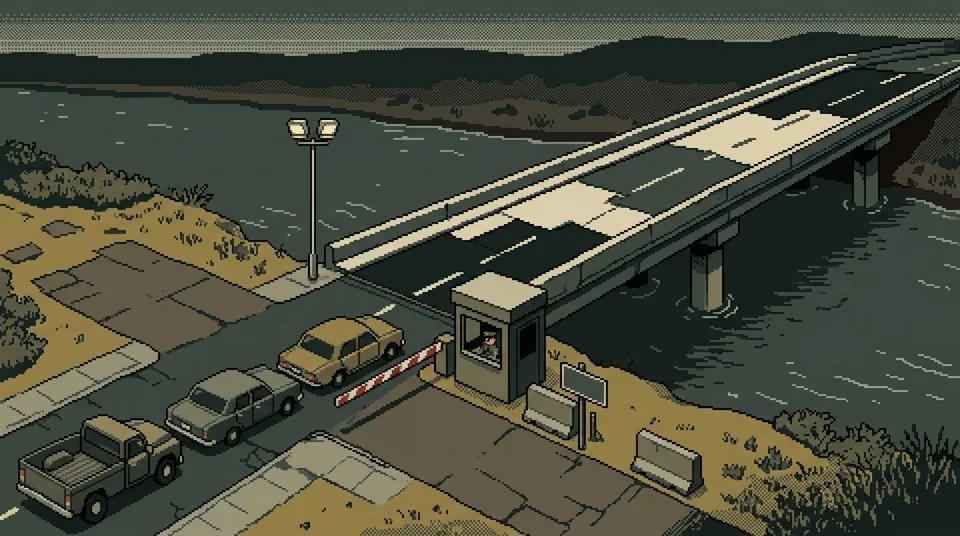
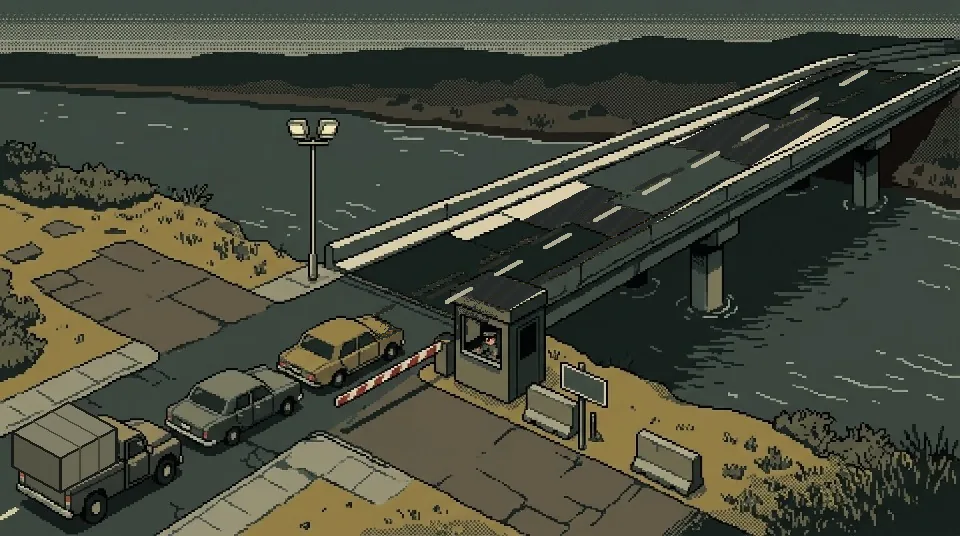
feat(#292): сцены первого срока 1978 года без чужой символики и процедурных заглушек (#289, #291)

diff --git a/web/app/game/SovereignGame.jsx b/web/app/game/SovereignGame.jsx
@@ -3521,16 +3521,21 @@ function Game({ gs, setGs, onEnd, onMenu, recap, onRecapDone }) {
                   </div>
                 )}
                 <h2 style={{ fontFamily:serif, fontSize:28, fontWeight:700, color:G.txt, lineHeight:1.2, marginBottom:12, textWrap:"balance" }}>{event.title}</h2>
-                {isFactoryOpening(gs) ? <FactoryLive/> : sceneOf(event) !== "square" && (
-                  <figure className={`sv-scene${inboxMode && !event.call && !event.press ? ' sv-case-attachment' : ''}`}
-                    style={{ margin:"0 0 16px", border:`2px solid ${G.txt}`, boxShadow:"var(--hard)" }}>
-                    <SquareView gs={gs} art={historicalEventArt(gs.country, event, sceneOf(event))} sceneKey={sceneOf(event)}
-                      partner={event.source === "Кремль" ? "ru" : gs.country === ALTERNATE_COUNTRY ? "trade1978" : "eu"} height={60} still/>
-                    {inboxMode && !event.call && !event.press && <figcaption>
-                      Приложение к делу · {historicalEventArt(gs.country, event, sceneOf(event))?.caption ?? SCENE_CAPTION[sceneOf(event)]}
-                    </figcaption>}
-                  </figure>
-                )}
+                {(() => {
+                  const caseArt = historicalEventArt(gs.country, event, sceneOf(event));
+                  if (isFactoryOpening(gs)) return <FactoryLive/>;
+                  if (gs.country === ALTERNATE_COUNTRY ? !caseArt : sceneOf(event) === "square") return null;
+                  return (
+                    <figure className={`sv-scene${inboxMode && !event.call && !event.press ? ' sv-case-attachment' : ''}`}
+                      style={{ margin:"0 0 16px", border:`2px solid ${G.txt}`, boxShadow:"var(--hard)" }}>
+                      <SquareView gs={gs} art={caseArt} sceneKey={sceneOf(event)}
+                        partner={event.source === "Кремль" ? "ru" : gs.country === ALTERNATE_COUNTRY ? "trade1978" : "eu"} height={60} still/>
+                      {inboxMode && !event.call && !event.press && <figcaption>
+                        Приложение к делу · {caseArt?.caption ?? SCENE_CAPTION[sceneOf(event)]}
+                      </figcaption>}
+                    </figure>
+                  );
+                })()}
                 {event.special && <SpecialHeader gs={gs} event={event}/>}
                 {(() => {
                   const { lead, rest } = splitLead(event.description, CASE_LEAD);
@@ -3656,13 +3661,19 @@ function Game({ gs, setGs, onEnd, onMenu, recap, onRecapDone }) {
                 </div>
                 <div style={{ fontFamily:narrow, fontWeight:700, fontSize:13, letterSpacing:".12em", textTransform:"uppercase", color:G.red, marginBottom:4 }}>{rubricOf(lastTurn)}</div>
                 <h2 id="sv-turn-result" className="sv-paper-drop" style={{ fontFamily:narrow, fontWeight:700, fontSize:"clamp(28px, 6.4vw, 38px)", lineHeight:1.1, color:G.txt, marginBottom:12, textWrap:"balance", animationDelay:".15s" }}><PeopleText>{lastTurn.headline}</PeopleText></h2>
-                <figure style={{ margin:"0 0 14px", border:`2px solid ${G.txt}` }}>
-                  <SquareView gs={gs} art={historicalResultArt(gs, lastTurn.scene)}
-                    sceneKey={lastTurn.scene} height={36} mono still/>
-                  <figcaption style={{ fontFamily:narrow, fontSize:14, color:G.tx3, padding:"3px 8px", borderTop:`2px solid ${G.txt}` }}>
-                    {historicalResultArt(gs, lastTurn.scene)?.caption ?? SCENE_CAPTION[lastTurn.scene] ?? SCENE_CAPTION.square}. Фото редакции
-                  </figcaption>
-                </figure>
+                {(() => {
+                  const resultArt = historicalResultArt(gs, lastTurn.scene);
+                  if (gs.country === ALTERNATE_COUNTRY && !resultArt) return null;
+                  return (
+                    <figure style={{ margin:"0 0 14px", border:`2px solid ${G.txt}` }}>
+                      <SquareView gs={gs} art={resultArt}
+                        sceneKey={lastTurn.scene} height={36} mono still/>
+                      <figcaption style={{ fontFamily:narrow, fontSize:14, color:G.tx3, padding:"3px 8px", borderTop:`2px solid ${G.txt}` }}>
+                        {resultArt?.caption ?? SCENE_CAPTION[lastTurn.scene] ?? SCENE_CAPTION.square}. Фото редакции
+                      </figcaption>
+                    </figure>
+                  );
+                })()}
                 {(() => {
                   // #260: первый абзац — всегда о резолюции; эхо прежних решений и прочее в квартале — отдельным блоком.
                   const quarter = splitQuarter(withoutHeadline(lastTurn.narrative, lastTurn.headline));

diff --git a/web/lib/client/historical-art.test.ts b/web/lib/client/historical-art.test.ts
@@ -28,8 +28,8 @@ test('all mapped WebP files exist within the image budgets', () => {
     HISTORICAL_ADDITIONAL_FIGURE_ART, HISTORICAL_ADVISOR_ART, HISTORICAL_LEADER_ART,
     HISTORICAL_SECRETARY_ART, HISTORICAL_ADVISOR_REPLACEMENT_ART, HISTORICAL_WORLD_PEOPLE_ART,
     HISTORICAL_PRESS_ART, HISTORICAL_FIGURE_SUCCESSOR_ART].flatMap(group => Object.values(group).map(art => art.src));
-  assert.equal(paths.length, 83);
-  assert.equal(new Set(paths).size, 82); // wages and wagesGate share wages-gate.webp
+  assert.equal(paths.length, 86);
+  assert.equal(new Set(paths).size, 85); // wages and wagesGate share wages-gate.webp
   let bytes = 0;
   for (const src of paths) {
     const file = new URL(`../../public${src}`, import.meta.url);
@@ -41,7 +41,7 @@ test('all mapped WebP files exist within the image budgets', () => {
       assert.ok(statSync(file).size <= (isPortrait ? 10_000 : 100_000), src);
     }
   }
-  assert.ok(bytes < 2_800_000);
+  assert.ok(bytes < 3_000_000);
 });
 
 test('hospital photos distinguish failed repair, ongoing works and a finished roof after reload', async () => {
@@ -193,7 +193,7 @@ test('first crisis and election night resolve authorial outcome scenes', async (
     const successState = { ...base, history: [{ year: 1978, title: harvestCard.title, choice: choice.text, headline: '', historianNote: '', success: true }] };
     assert.deepEqual(historicalResultArt(successState, 'field'), expectedHarvestSuccess[idx]);
     const failState = { ...base, history: [{ year: 1978, title: harvestCard.title, choice: choice.text, headline: '', historianNote: '', success: false }] };
-    assert.deepEqual(historicalResultArt(failState, 'field'), HISTORICAL_SCENE_ART.harvest);
+    assert.deepEqual(historicalResultArt(failState, 'field'), HISTORICAL_OUTCOME_ART.harvestRot);
   }
   const fuelCard = ALTERNATE_EVENTS.find(c => c.id === 'alt_fuel')!;
   const expectedFuelSuccess = [
@@ -467,4 +467,39 @@ test('living world characters, press correspondents and staffing candidates all 
     assert.notEqual(afterHire, HISTORICAL_ADVISOR_ART[candidate.seat].src);
   }
 });
+
+test('budget, terms, and factory strike resolve dedicated 1978 scenes while unmapped generic scenes return null', async () => {
+  const base = await fresh();
+  const event = await classicApi.event(base);
+
+  const budgetEvent = { ...event, card: undefined, title: 'Предвыборный бюджет', budget: { total: 10 } };
+  assert.deepEqual(historicalEventArt(ALTERNATE_COUNTRY, budgetEvent, 'cabinet'), HISTORICAL_SCENE_ART.budget);
+  const budgetState = { ...base, history: [{ year: 1979, title: 'Предвыборный бюджет', choice: '', headline: '', historianNote: '' }] };
+  assert.deepEqual(historicalResultArt(budgetState, 'cabinet'), HISTORICAL_SCENE_ART.budget);
+
+  const termsEvent = { ...event, card: undefined, title: 'Вопрос о сроках' };
+  assert.deepEqual(historicalEventArt(ALTERNATE_COUNTRY, termsEvent, 'stamp'), HISTORICAL_SCENE_ART.terms);
+  const termsState = { ...base, history: [{ year: 1982, title: 'Вопрос о сроках', choice: '', headline: '', historianNote: '' }] };
+  assert.deepEqual(historicalResultArt(termsState, 'stamp'), HISTORICAL_SCENE_ART.terms);
+
+  const strikeEvent = { ...event, card: 'alt_region_factory_strike', title: 'Заводы бастуют, деревня молчит' };
+  assert.deepEqual(historicalEventArt(ALTERNATE_COUNTRY, strikeEvent, 'protest'), HISTORICAL_SCENE_ART.factoryStrike);
+  assert.notEqual(historicalEventArt(ALTERNATE_COUNTRY, strikeEvent, 'protest'), HISTORICAL_SCENE_ART.protest);
+  const genericStrikeEvent = { ...event, card: undefined, title: 'Забастовка на крупнейшем заводе' };
+  assert.deepEqual(historicalEventArt(ALTERNATE_COUNTRY, genericStrikeEvent, 'protest'), HISTORICAL_SCENE_ART.factoryStrike);
+
+  const unmappedEvent = { ...event, card: undefined, title: 'Внеочередное совещание в министерстве' };
+  for (const scene of ['cabinet', 'stamp', 'meeting'] as const) {
+    assert.equal(historicalEventArt(ALTERNATE_COUNTRY, unmappedEvent, scene), null);
+    const unmappedResult = { ...base, history: [{ year: 1983, title: unmappedEvent.title, choice: '', headline: '', historianNote: '' }] };
+    assert.equal(historicalResultArt(unmappedResult, scene), null);
+  }
+
+  for (const country of LEGACY_COUNTRIES) {
+    assert.equal(historicalEventArt(country, budgetEvent, 'cabinet'), null);
+    assert.equal(historicalEventArt(country, termsEvent, 'stamp'), null);
+    assert.equal(historicalEventArt(country, strikeEvent, 'protest'), null);
+  }
+});
+
 

diff --git a/web/lib/client/historical-art.ts b/web/lib/client/historical-art.ts
@@ -28,6 +28,9 @@ export const HISTORICAL_SCENE_ART = {
   electionDefeat: { src: '/art/gemini-next/election-defeat.webp', caption: 'Штаб кампании в полночь после поражения' },
   parliamentHall: { src: '/art/gemini-next/parliament-hall.webp', caption: 'Правительственная ложа в зале парламента' },
   residenceMorning: { src: '/art/gemini-next/residence-morning.webp', caption: 'Вид из кабинета президента на площадь Независимости' },
+  budget: { src: '/art/gemini-next/budget-folders.webp', caption: 'Пять папок бюджета на столе президента' },
+  terms: { src: '/art/gemini-next/terms-folder.webp', caption: 'Папка без надписи' },
+  factoryStrike: { src: '/art/gemini-next/factory-strike.webp', caption: 'Забастовка у заводской проходной' },
 } as const;
 export type HistoricalArt = { src: string; caption: string };
 export const HISTORICAL_OUTCOME_ART = {
@@ -83,7 +86,7 @@ const CARD_ART: Record<string, HistoricalArt> = {
   alt_radio: HISTORICAL_SCENE_ART.radio, alt_harvest: HISTORICAL_SCENE_ART.harvest,
   alt_archive: HISTORICAL_SCENE_ART.archive,
   alt_region_walkers: HISTORICAL_SCENE_ART.bridge,
-  alt_region_factory_strike: HISTORICAL_SCENE_ART.protest,
+  alt_region_factory_strike: HISTORICAL_SCENE_ART.factoryStrike,
   alt_region_customs: HISTORICAL_SCENE_ART.rail,
   alt_region_governors: HISTORICAL_SCENE_ART.parliamentHall,
   alt_region_border_rift: HISTORICAL_SCENE_ART.rail,
@@ -98,15 +101,20 @@ const TITLE_ART: Record<string, HistoricalArt> = Object.fromEntries([
   ...ALTERNATE_EVENTS.filter(card => CARD_ART[card.id]).map(card => [card.title, CARD_ART[card.id]]),
   ...ALTERNATE_LAWS.map(law => [`Законопроект «${law.title}»`, CARD_ART[`law_${law.id}`]]),
   ['Мосты после паводка', HISTORICAL_SCENE_ART.bridge],
+  ['Предвыборный бюджет', HISTORICAL_SCENE_ART.budget],
+  ['Вопрос о сроках', HISTORICAL_SCENE_ART.terms],
+  ['Забастовка на крупнейшем заводе', HISTORICAL_SCENE_ART.factoryStrike],
 ]);
 
 export function historicalEventArt(country: string, event: GameEvent, scene: SceneKey): HistoricalArt | null {
   if (country !== ALTERNATE_COUNTRY) return null;
   if (event.beat?.arcId === 'alt_contracts') return HISTORICAL_SCENE_ART.archive;
+  if (event.budget) return HISTORICAL_SCENE_ART.budget;
   if (event.card && CARD_ART[event.card]) return CARD_ART[event.card];
   const bill = event.card?.match(/^law:\d+:(alt_export_guarantee|alt_open_orders)$/)?.[1];
   if (bill) return CARD_ART[`law_${bill}`];
   if (event.special?.kind === 'inspect') return event.title === 'Мосты после паводка' ? HISTORICAL_SCENE_ART.bridge : null;
+  if (TITLE_ART[event.title]) return TITLE_ART[event.title];
   return MODE_ART[scene] ?? null;
 }
 
@@ -141,13 +149,13 @@ export function historicalResultArt(state: GameState, scene: SceneKey): Historic
   }
   if (completed?.title === harvestCard.title) {
     if (completed.choice === harvestCard.choices[0].text) {
-      return completed.success ? HISTORICAL_OUTCOME_ART.harvestSubsidy : HISTORICAL_SCENE_ART.harvest;
+      return completed.success ? HISTORICAL_OUTCOME_ART.harvestSubsidy : HISTORICAL_OUTCOME_ART.harvestRot;
     }
     if (completed.choice === harvestCard.choices[1].text) {
-      return completed.success ? HISTORICAL_OUTCOME_ART.harvestDirect : HISTORICAL_SCENE_ART.harvest;
+      return completed.success ? HISTORICAL_OUTCOME_ART.harvestDirect : HISTORICAL_OUTCOME_ART.harvestRot;
     }
     if (completed.choice === harvestCard.choices[2].text) {
-      return completed.success ? HISTORICAL_OUTCOME_ART.harvestCredit : HISTORICAL_SCENE_ART.harvest;
+      return completed.success ? HISTORICAL_OUTCOME_ART.harvestCredit : HISTORICAL_OUTCOME_ART.harvestRot;
     }
   }
   if (completed?.title === fuelCard.title) {

diff --git a/web/app/game/SponsorPanel.jsx b/web/app/game/SponsorPanel.jsx
@@ -6,7 +6,7 @@ import { PeopleText } from './PeopleText.jsx';
 
 const LABELS = { offered: 'Можно выйти на контакт', accepted: 'Вы приняли помощь', demanding: 'Он предъявил условие', confirmed: 'Условие проведено', refused: 'Вы отказались', pressuring: 'Он задерживает поставки', independent: 'Рычаг поставок утрачен', released: 'Программа завершена', departed: 'Участник лишился прежней позиции' };
 const RES = { economy: 'экономика', politicalCapital: 'политкапитал', personalResource: 'личный ресурс' };
-export default function SponsorPanel({ gs, onAction, Scene, onViewChange, embedded = false, onClose }) {
+export default function SponsorPanel({ gs, onAction, onViewChange, embedded = false, onClose }) {
   const [open, setOpen] = useState(embedded);
   const [selected, setSelected] = useState(null);
   const [error, setError] = useState('');
@@ -30,7 +30,6 @@ export default function SponsorPanel({ gs, onAction, Scene, onViewChange, embedd
     <p>{s.phase === 'offered' ? 'Спонсор кампании может помочь энергосети. Вы можете сами обсудить условия, пока в кабинете идёт другое дело.' : s.phase === 'demanding' ? `Помощь получила цену: ответьте на требование до конца квартала ${s.deadline}.` : s.phase === 'pressuring' ? 'Его компании задерживают нынешние поставки. Независимый договор уберёт этот рычаг; политическая история продолжится.' : s.phase === 'independent' ? 'Вы освободили снабжение от этого человека. Документы о кампании остаются в политической истории.' : 'Ваша договорённость и её последствия остаются частью правления.'}</p>
     <button className="sv-sponsor-open" aria-expanded={open} onClick={() => { setOpen(!open); onViewChange(!open); setSelected(null); }}>{open ? 'Свернуть контакт' : s.phase === 'offered' ? 'Назначить встречу →' : 'Открыть контакт и последствия →'}</button></>}
     {open && <div className="sv-sponsor-body">
-      <Scene gs={gs} sceneKey="office" height={48} still/>
       <div className="sv-sponsor-person">{person ? `${person.role} · отношение ${person.relation > 0 ? '+' : ''}${person.relation}` : 'Прежний участник больше не занимает эту позицию'}</div>
       <p><PeopleText>{s.lastMove}</PeopleText></p>
       <p className="sv-sponsor-help">Открытие встречи и чтение не двигают календарь. Подтверждённое поручение использует одно личное вмешательство квартала — то же, что больницы и энергосеть.</p>

diff --git a/web/app/game/MinisterPanel.jsx b/web/app/game/MinisterPanel.jsx
@@ -4,7 +4,7 @@ import { livingActions } from '@/lib/game/living-world.ts';
 import { governmentPrice } from './GovernmentPanel.jsx';
 import { PeopleText } from './PeopleText.jsx';
 
-export default function MinisterPanel({ gs, Scene, onAction, onClose }) {
+export default function MinisterPanel({ gs, onAction, onClose }) {
   const [selected, setSelected] = useState(null);
   const [receipt, setReceipt] = useState('');
   const [error, setError] = useState('');
@@ -23,7 +23,6 @@ export default function MinisterPanel({ gs, Scene, onAction, onClose }) {
     } catch (e) { setError(e.message || 'Не удалось записать решение'); }
   }
   return <section className="sv-sponsor" data-minister-panel>
-    <Scene gs={gs} sceneKey="office" height={48} still/>
     <div className="sv-sponsor-person">{person ? `Министр энергетики · отношение ${person.relation > 0 ? '+' : ''}${person.relation} · интерес: контроль строительных закупок` : 'Прежний министр больше не занимает должность'}</div>
     <p><PeopleText>{mandate.text}</PeopleText></p>
     <p className="sv-sponsor-help">Чтение бесплатно. Подпись использует одно личное вмешательство квартала, общее с другими поручениями. Координатор программы и распорядитель закупок — разные роли.</p>

diff --git a/docs/gemini-scenes-1978-manifest.md b/docs/gemini-scenes-1978-manifest.md
@@ -1,0 +1,24 @@
+# Манифест пакета сцен первого срока Неманской республики 1978 года (#292, #289, #291)
+
+- **Исполнитель:** Gemini (`Gemini 4 Argon`, Medium)
+- **Задачи:** #292 (P0 — чистка чужой символики и надписей; P1 — перерисовка элеватора #289 и 3 новых кадра первого срока; P2 — выравнивание палитры и эпохи), #289, #291 (показ «Приложения к делу» и «Фото редакции» в 1978 году только при наличии нарисованной иллюстрации; удаление безымянной процедурной сцены кабинета из `MinisterPanel` и `SponsorPanel`).
+- **Разрешение игровых WebP:** `960×536` (`<= 100 KB` на сцену в `gemini-next`).
+- **Контактный лист:** `docs/gemini-scenes-1978-contact.jpg`.
+
+## Состав пакета и контрольные суммы
+
+| Код | ID | WebP (`960×536`) | Размер | SHA-256 (WebP) | Подпись и изменения |
+| --- | --- | --- | --- | --- | --- |
+| `P0.1` | `parliament-hall` | `web/public/art/gemini-next/parliament-hall.webp` | 64,394 B | `3cb2072217432153…` | «Правительственная ложа в зале парламента» — Убран двуглавый орёл с трибуны, советский герб и триколор заменены на флаг Неманской республики (#293b38 с волнистой рекой #dfcfaa) и нейтральный герб |
+| `P0.2` | `press` | `web/public/art/scenes/press.webp` | 45,478 B | `3a3115e9925e92e0…` | «Журналисты в пресс-центре» — Звёздно-полосатые флаги по бокам зала заменены на штандарты Неманской республики (#293b38 с линией-рекой #dfcfaa) |
+| `P0.3` | `election-night` | `web/public/art/gemini-next/election-night.webp` | 43,884 B | `0cf022d7b450a0bc…` | «Кабинет президента в ночь подсчёта голосов» — Российский триколор на здании за окном заменён на флаг Неманской республики (#293b38 с линией-рекой #dfcfaa) |
+| `P0.4` | `protest` | `web/public/art/scenes/protest.webp` | 45,378 B | `6819293d75f476e7…` | «Собрание у университета» — Удалены впечатанные английские надписи «OCT 1978» и «SOVEREIGN» |
+| `P0.5` | `export-guarantee` | `web/public/art/scenes/export-guarantee.webp` | 35,900 B | `1b083ad7e78171d0…` | «Экспортная гарантия в банковской книге» — Герб штата Нью-Йорк над сейфом заменён на нейтральный каменный барельеф-розетту |
+| `P1.1` | `harvest` | `web/public/art/scenes/harvest.webp` | 79,404 B | `3cff051ea52557bf…` | «Закупка зерна у элеватора» — Перерисована завязка #289: пустой двор элеватора из окна приёмки, закрытый шлагбаум, неразгруженные грузовики стоят в стороне; на срыв закупки подключён harvest-rot.webp |
+| `P1.2` | `budget-folders` | `web/public/art/gemini-next/budget-folders.webp` | 48,822 B | `58bf5ff5b82592b1…` | «Пять папок бюджета на столе президента» — Новый кадр хода 8 («Предвыборный бюджет»): пять папок бюджета на столе президента, руки министров, чай в подстаканнике |
+| `P1.3` | `terms-folder` | `web/public/art/gemini-next/terms-folder.webp` | 41,228 B | `4f729fa7e6806e85…` | «Папка без надписи» — Новый кадр хода 18 («Вопрос о сроках»): одна папка без надписи на пустом столе, листовки за окном резиденции |
+| `P1.4` | `factory-strike` | `web/public/art/gemini-next/factory-strike.webp` | 44,888 B | `7dc24906a10b817a…` | «Забастовка у заводской проходной» — Новый кадр забастовки у проходной завода для alt_region_factory_strike и «Забастовка на крупнейшем заводе» без читаемого текста на плакатах |
+| `P2.1` | `standards-contest` | `web/public/art/gemini-next/standards-contest.webp` | 56,796 B | `83935379151fd6f3…` | «Небольшой завод выиграл контракт на поставку насосов» — Приведено к общей приглушённой палитре 1978 года, убраны мультяшные улыбки |
+| `P2.2` | `standards-testing` | `web/public/art/gemini-next/standards-testing.webp` | 63,996 B | `2139e3dae95f260a…` | «Испытательная линия промышленных насосов получила первый заказ» — Приведено к общей приглушённой палитре 1978 года и серьёзному выражению лица |
+| `P2.3` | `bridge-toll` | `web/public/art/gemini-next/bridge-toll.webp` | 81,068 B | `4e108a783edb28cb…` | «На восстановленном мосту взимают плату за проезд» — Убрана современная белая блочная разметка на мосту, американский пикап заменён на крытый грузовик 1978 года позади седанов «Волга» |
+| `P2.4` | `bridge-restored` | `web/public/art/gemini-next/bridge-restored.webp` | 36,350 B | `105fe7c6256c4ba3…` | «Мост открыт после капитального восстановления» — Убраны лагерная вышка и колючая проволока на переднем плане берега |
